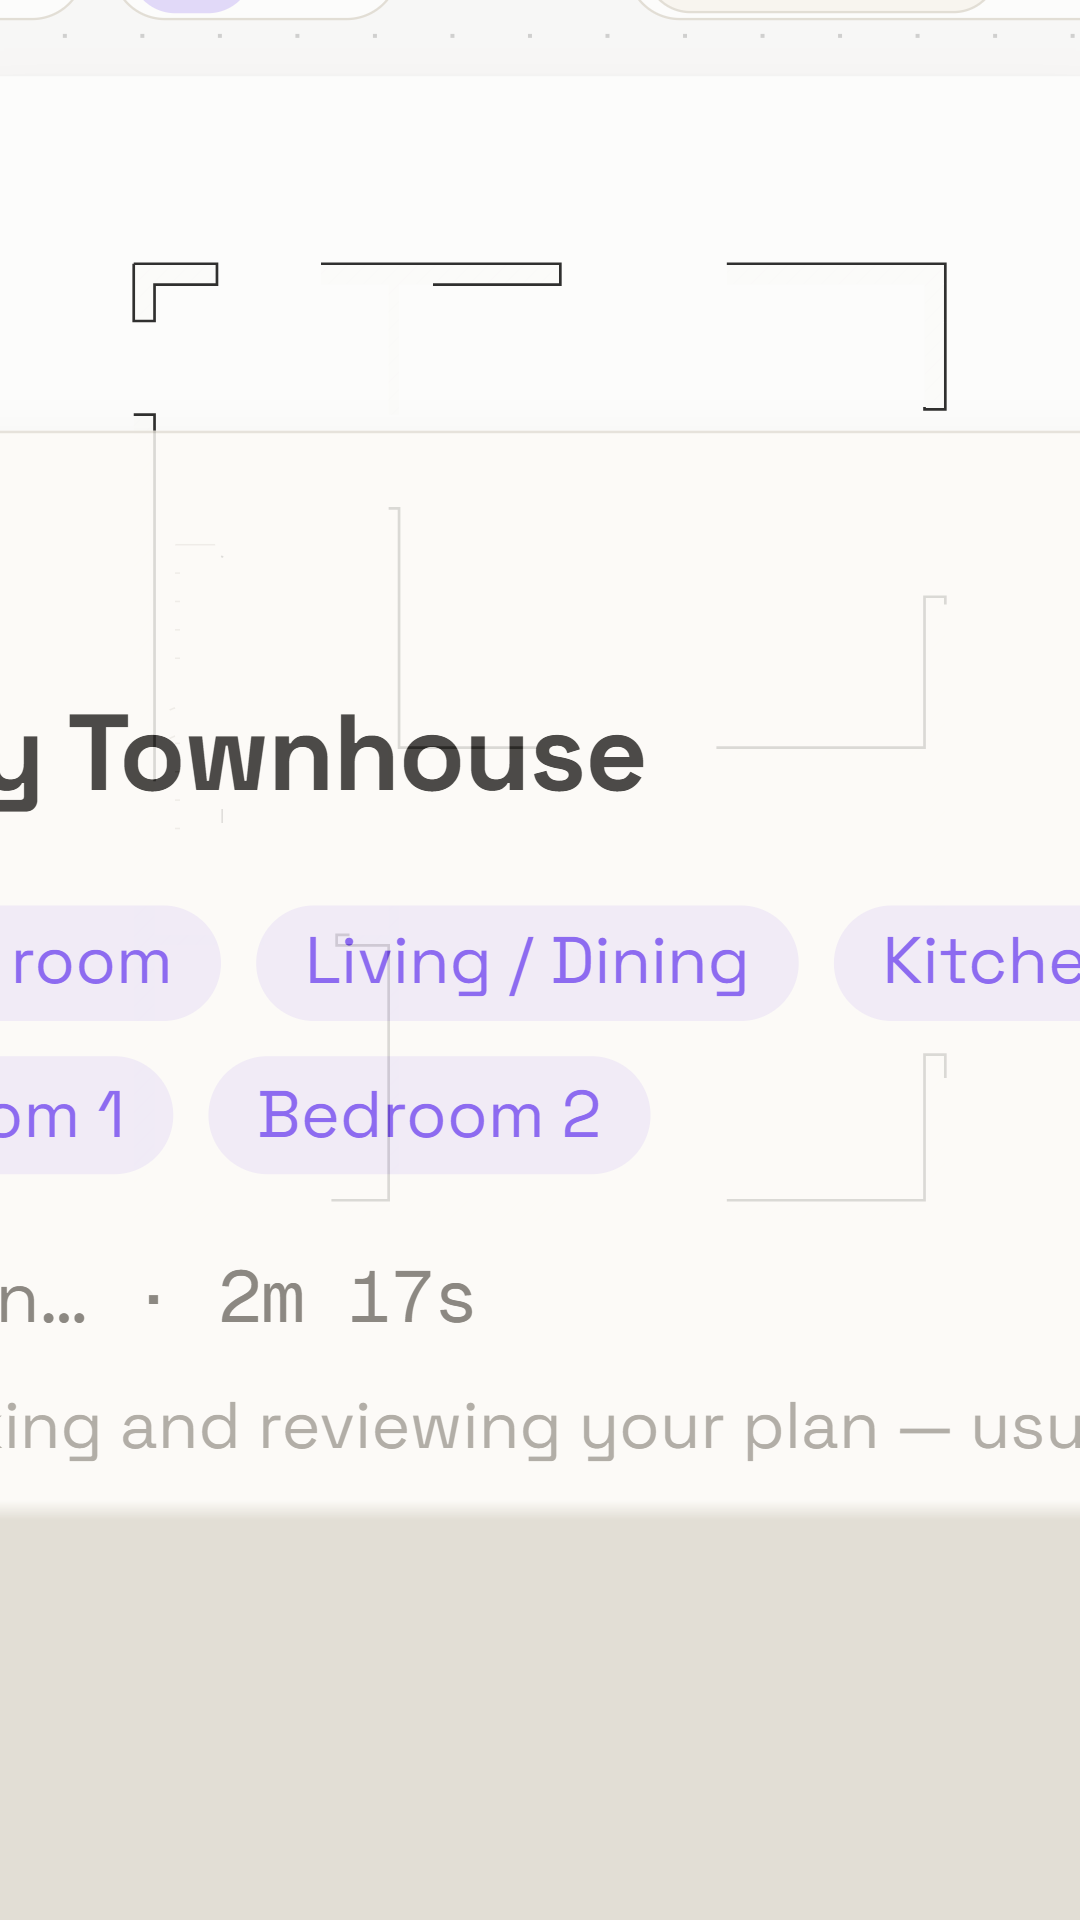
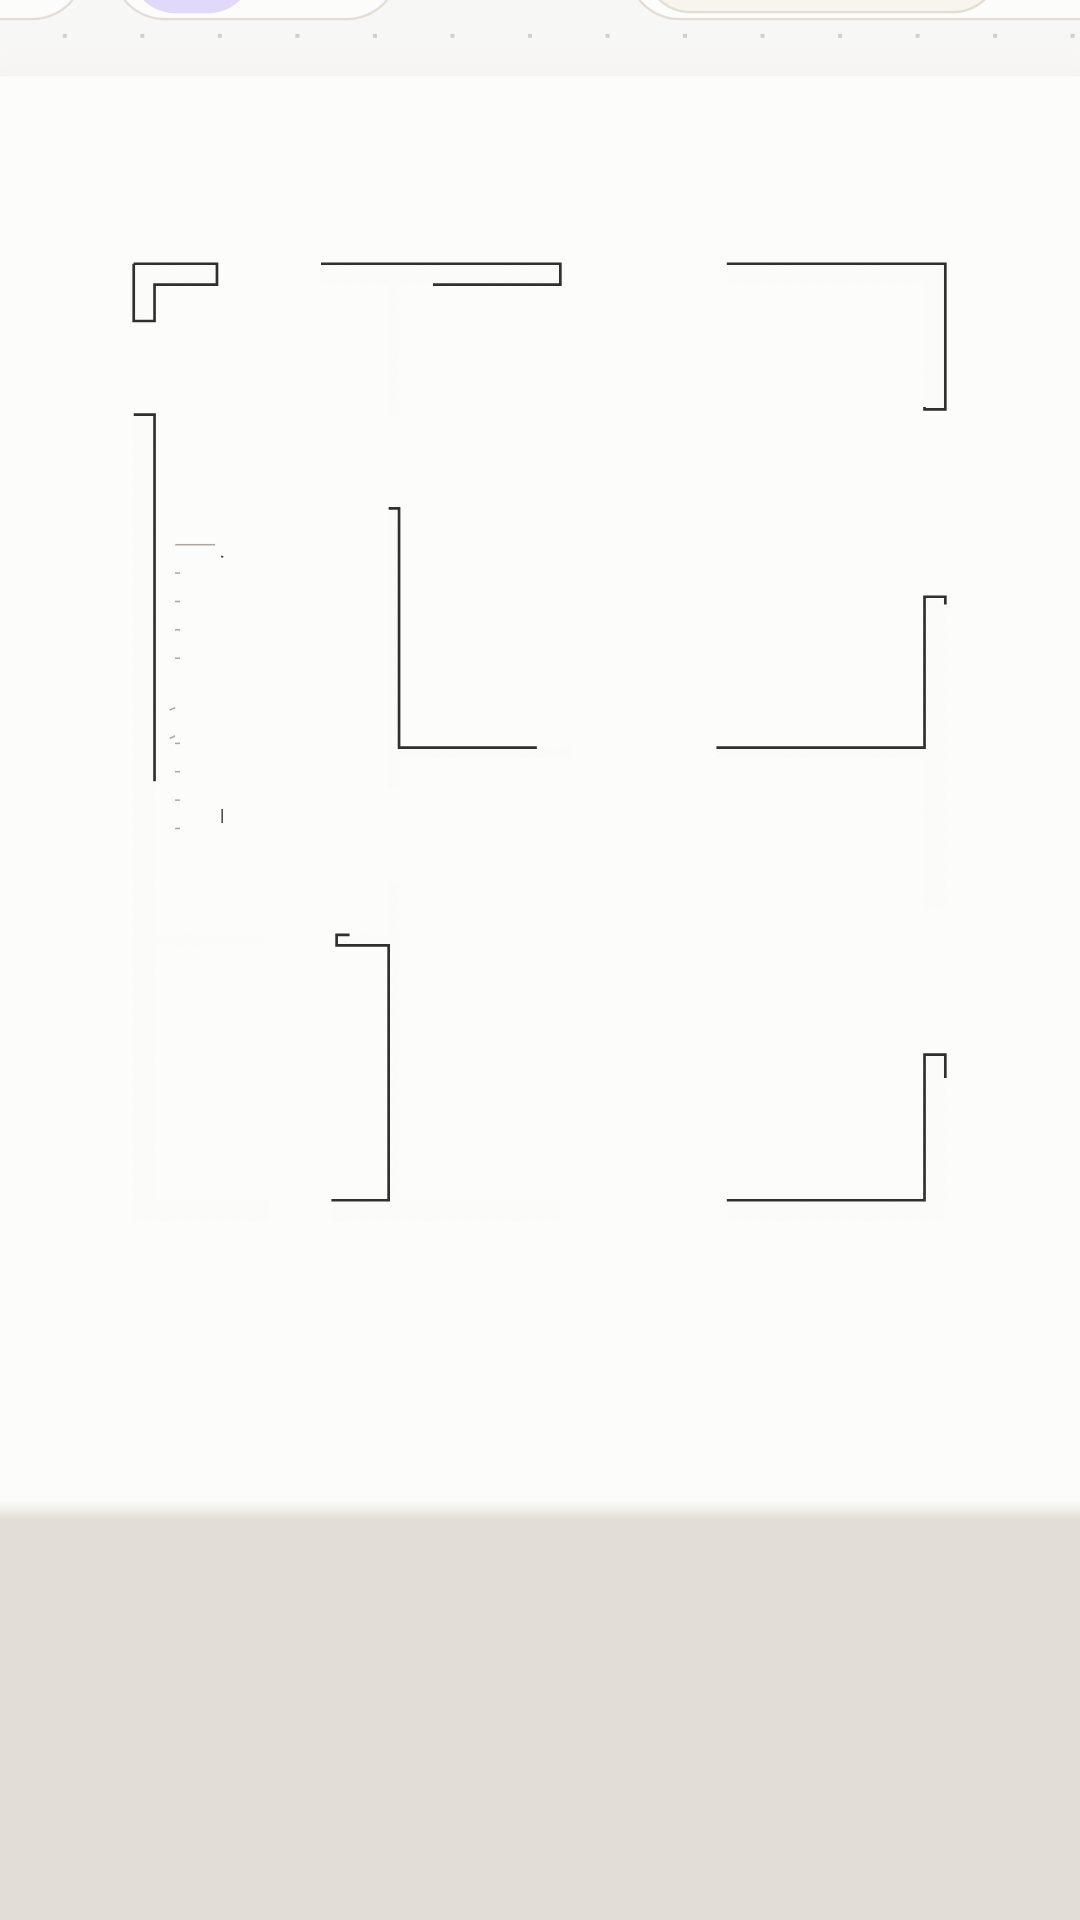
D39-c: in 9:16 the drafting sheet is gone, because it cannot be whole
Upstream deliberately holds the sheet up while the drawing starts underneath it,
so the money-shot beat opens with the card on screen for about half a second.
In 16:9 that is a good half-second: the card is 78 % of the frame width,
legible, with the walls coming up behind it. In 9:16 the same card is
**2491 px wide in a 1080 px frame — 231 %** — and it arrives cut through its own
words on both sides: `...y Townhouse`, `Kitche...`, `...ting and reviewing your
plan — usu...`.

The brief was to hold a framing that contains the card and then punch in.
Measured, that is not a punch-in: containing the card across a 9:16 frame takes
a scale of about **1.07** against the money shot's 2.60, which is a different
shot — and at 1.07 the product's own honesty caption is back inside the frame,
so it can no longer be expelled and `verify:honesty` fails eight ways on "whole
or gone, never half". That has now been measured three times across two rounds:
once as a protection (scale pops 1.61 -> 2.71 in a frame), once as an eased
`lerpPush` (8 failures), and once as arithmetic.

So in 9:16 the card is GONE rather than half. A row of type is whole or it is
gone; a card is no different, and the sheet legitimately disappears a moment
later anyway. A HOST decision with the same standing as `closeFinding`: `state`
is a prop, a dismissed drafting sheet is an ordinary product state, and the film
already chooses which second of the screenplay to show. `src/replica` is
[…]

diff --git a/src/camera.ts b/src/camera.ts
@@ -835,6 +835,41 @@ const showOpenFinding = (scene: SceneId): boolean => scene === "receipt";
 const closeFinding = (state: ReplicaState): ReplicaState =>
   state.review.openPin === null ? state : { ...state, review: { ...state.review, openPin: null } };
 
+/**
+ * The drafting sheet is not part of the 9:16 money shot.
+ *
+ * ── Measured, after three attempts at keeping it ───────────────────────────
+ *
+ * Upstream deliberately holds the sheet up while the drawing starts underneath
+ * it, so the money-shot beat opens with the card on screen for about half a
+ * second. In 16:9 that is a good half-second: the card is 78 % of the frame
+ * width, legible, with the walls coming up behind it. In 9:16 the same card is
+ * **2491 px wide in a 1080 px frame — 231 %** — and it arrives cropped through
+ * its own words on both sides: `...y Townhouse`, `Kitche...`, `...ting and
+ * reviewing your plan — usu...`.
+ *
+ * Containing it is not available. At the money shot's 2.60x it would take a
+ * scale of about **1.07** to fit the card across, which is not a punch-in from
+ * a held framing, it is a different shot — and at 1.07 the product's own
+ * honesty caption is back inside the frame, so it can no longer be expelled and
+ * `verify:honesty` fails eight ways on "whole or gone, never half". That was
+ * measured twice, once as a protection and once as an eased `lerpPush`.
+ *
+ * So in 9:16 the card is GONE rather than half. A row of type is whole or it is
+ * gone; a card is no different, and the sheet legitimately disappears a moment
+ * later anyway.
+ *
+ * ⚠ A HOST decision, not an edit to the replica — the same standing as
+ * `closeFinding` above. `state` is a prop, a dismissed drafting sheet is an
+ * ordinary product state, and the film already chooses which second of the
+ * screenplay to show. `src/replica` is untouched.
+ *
+ * Only in 9:16, and only on the beat that frames past the caption: the 16:9
+ * hand-over keeps the card because there it reads.
+ */
+const hideDraftingSheet = (state: ReplicaState): ReplicaState =>
+  state.drafting.visible ? { ...state, drafting: { ...state.drafting, visible: false } } : state;
+
 export const shotFor = (
   beat: ResolvedBeat,
   localFrame: number,
@@ -852,7 +887,8 @@ export const shotFor = (
   // attached the knots; this does not decide, it reads.
   const t = replicaSecondFor(beat, p);
 
-  const state = showOpenFinding(beat.scene) ? stateAt(t) : closeFinding(stateAt(t));
+  const raw = showOpenFinding(beat.scene) ? stateAt(t) : closeFinding(stateAt(t));
+  const state = layout.aspect === "portrait" && beat.expelsCaption ? hideDraftingSheet(raw) : raw;
   const probe = mountReplica(box, layout.replicaLayout, { browserFrame: opts.browserFrame });
   const page = pickPage(PAGES, state.plan.variant, state.plan.page);
   const mount = page
